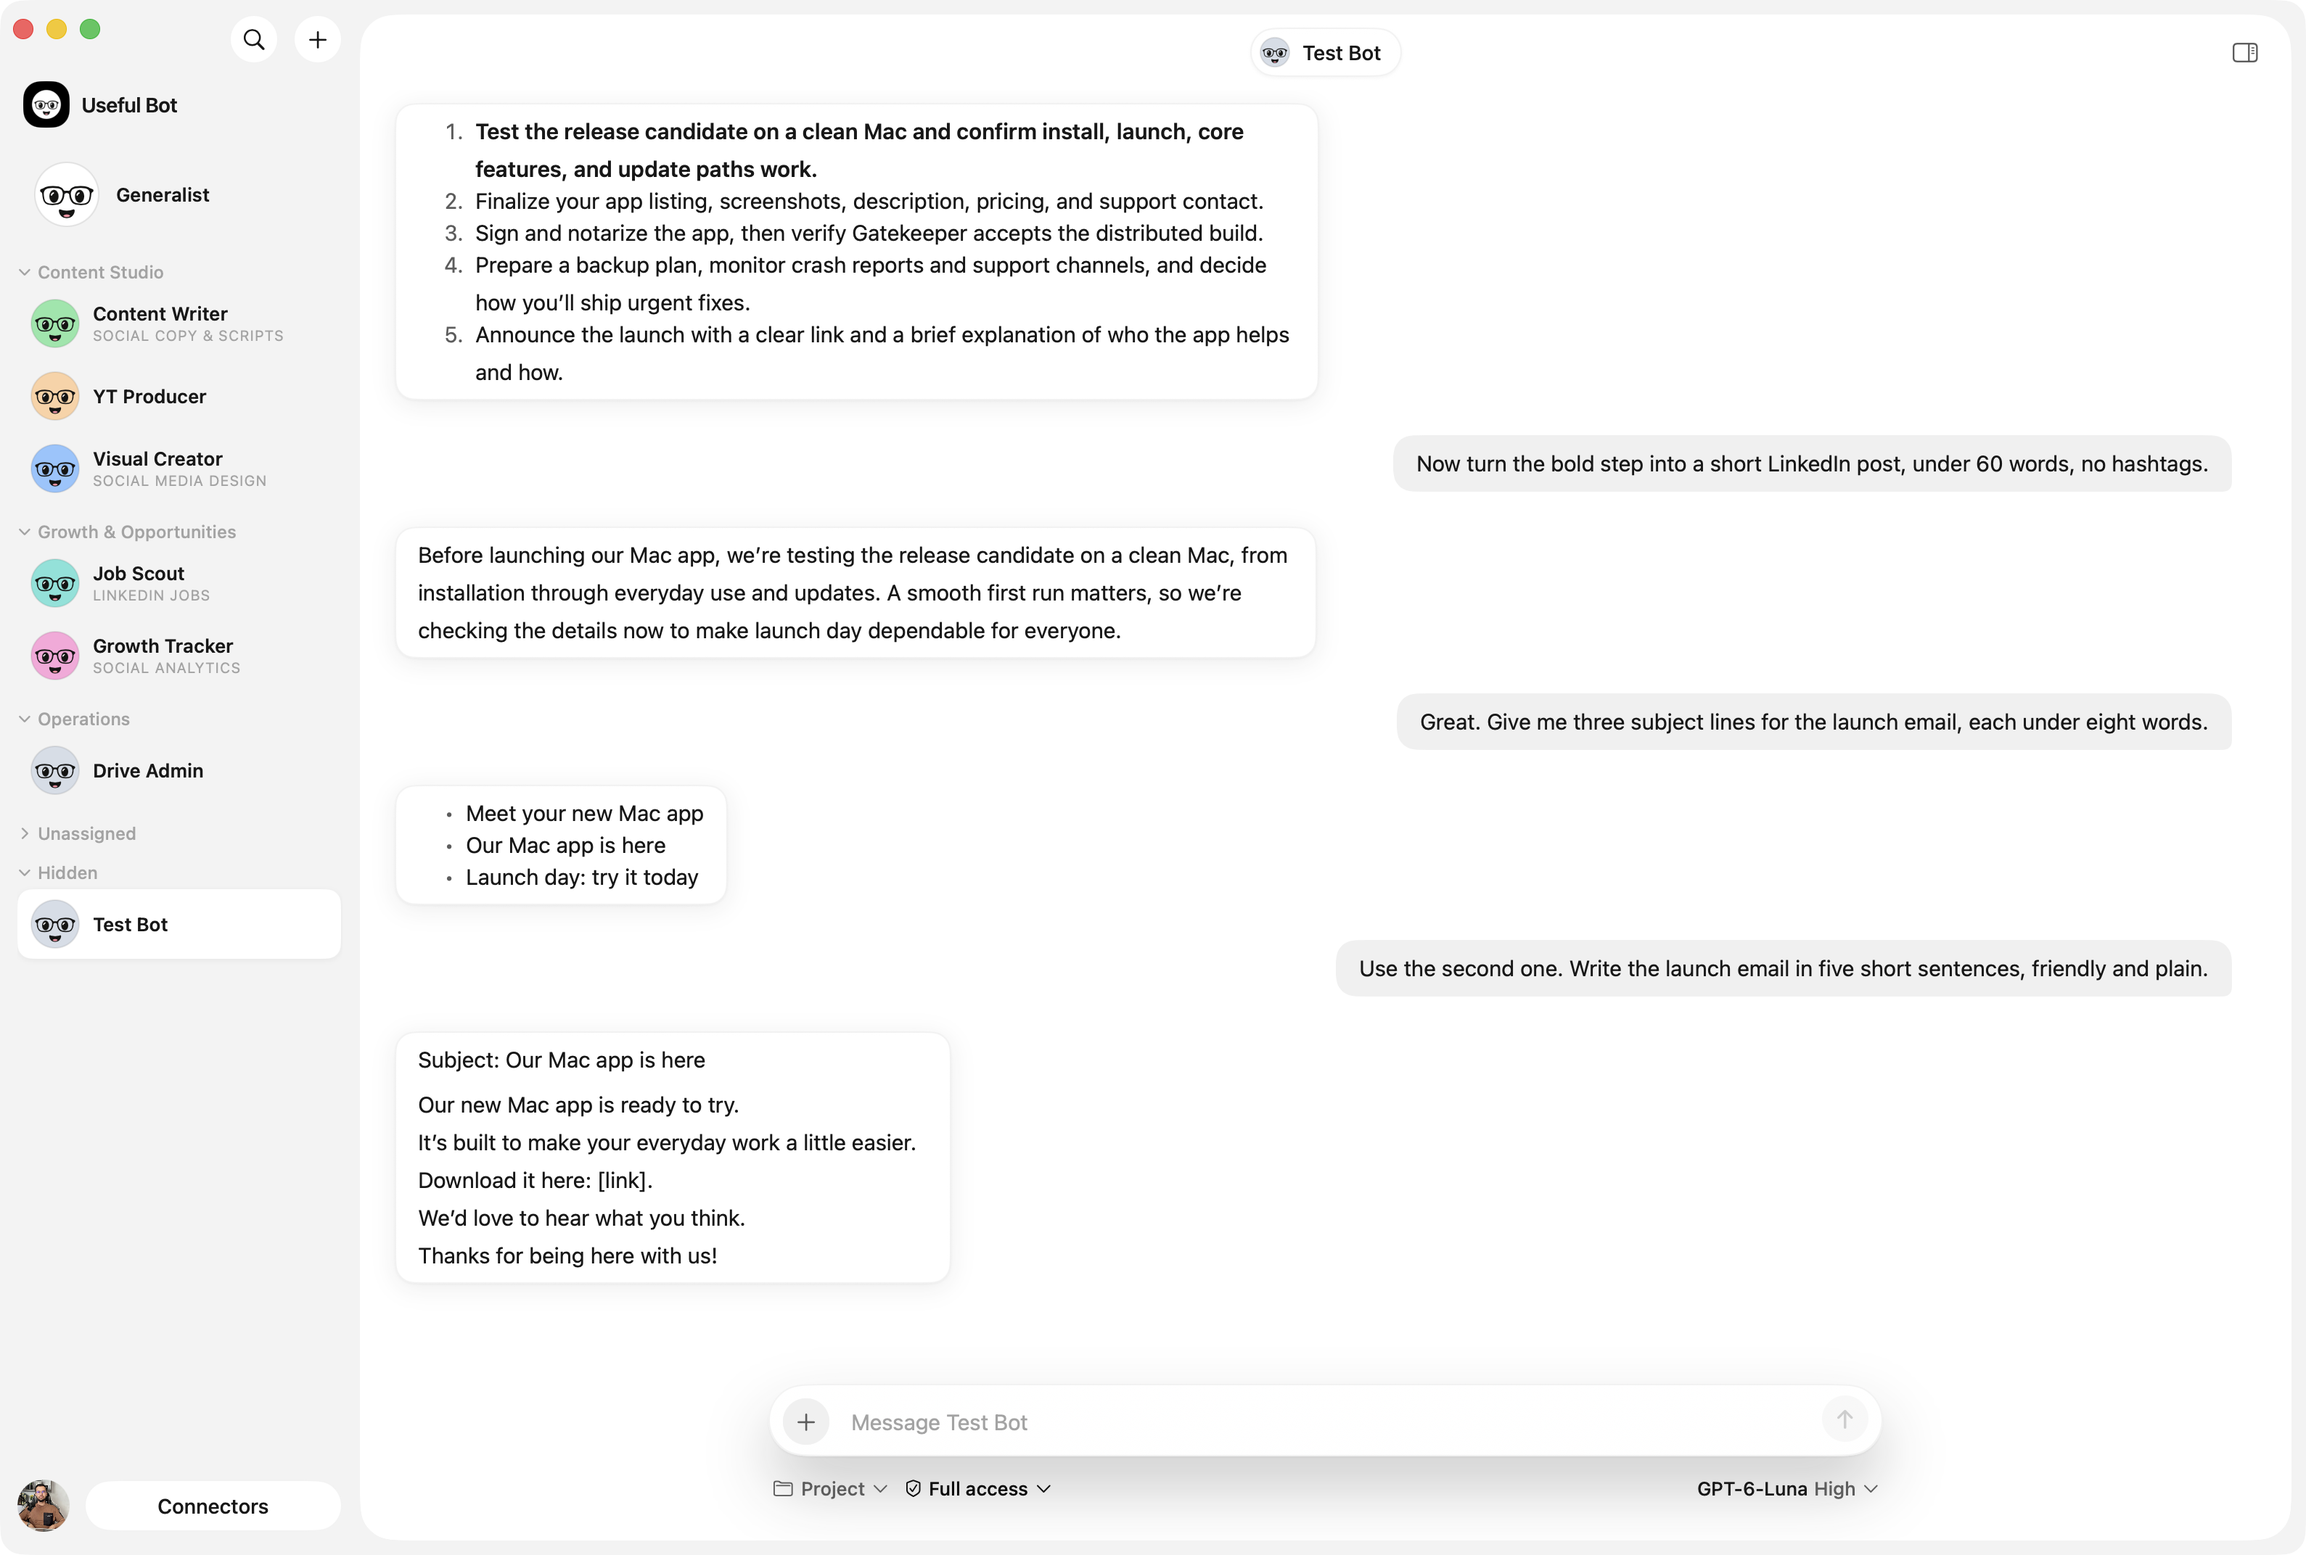
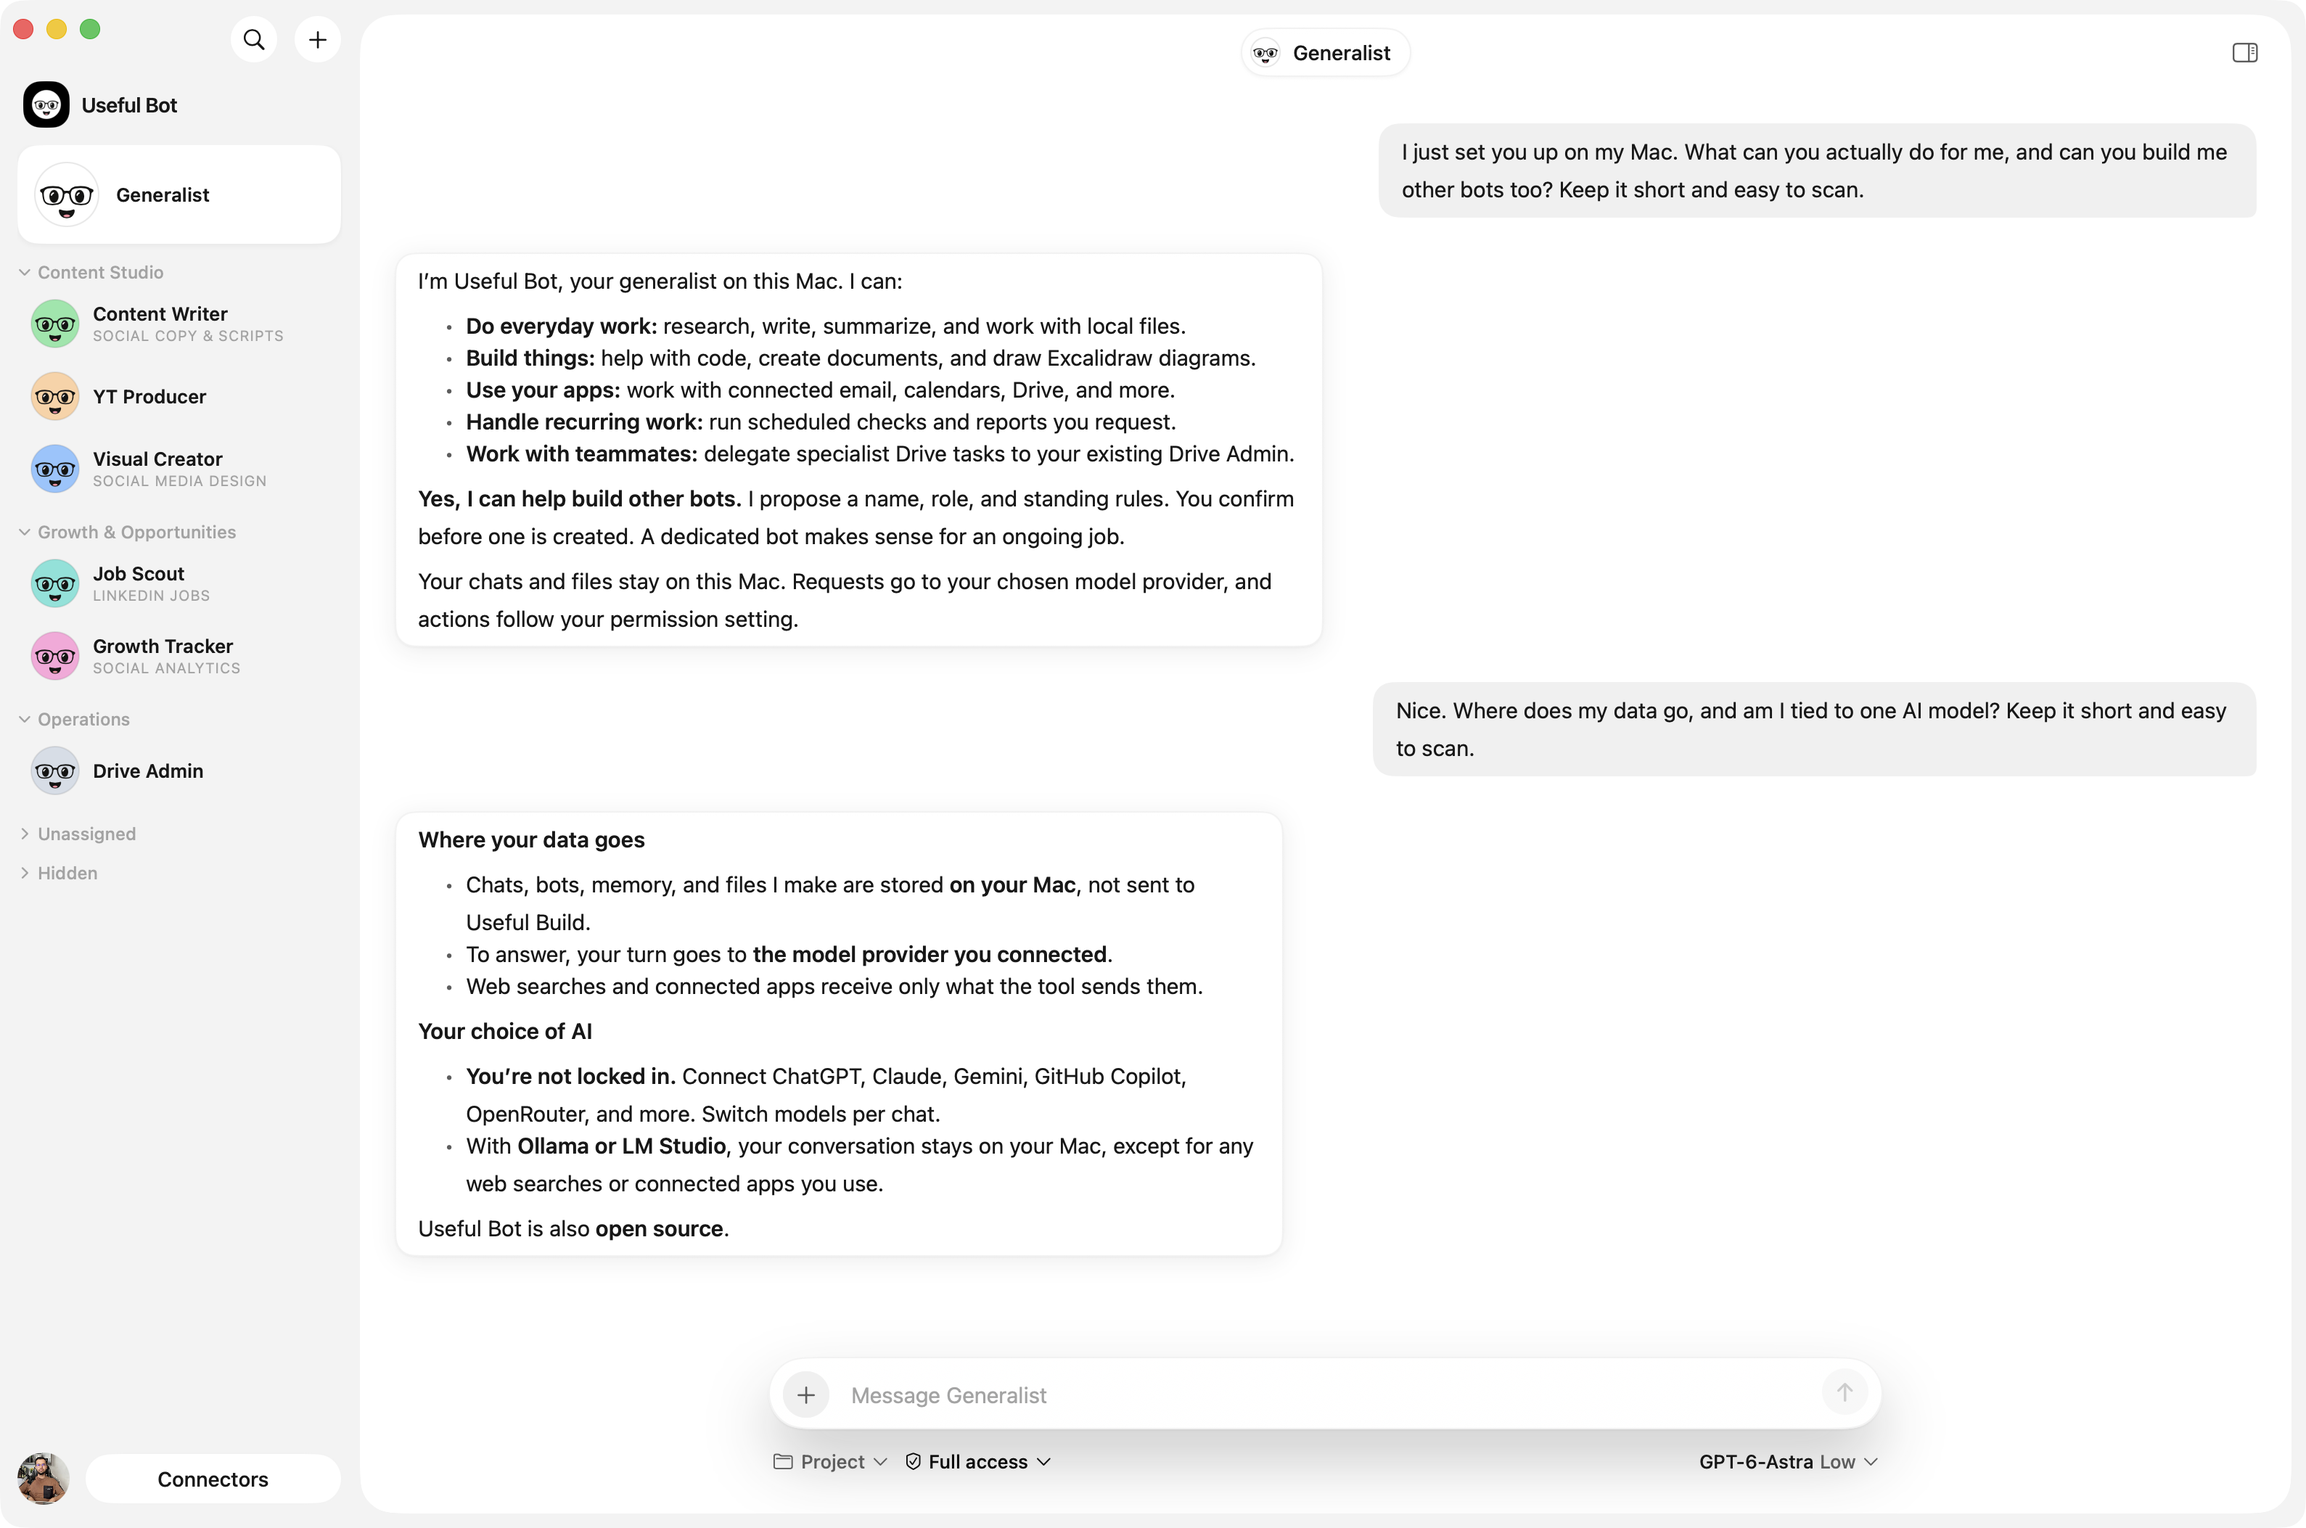
fix: earlier bubble no longer truncates when a later reply lands; new hero
- ChatView: the viewport floor proposed a finite height to the eager transcript
  stack, which shared it out and cut an earlier bubble paragraph to one line in
  a chat shorter than the window. fixedSize on the stack keeps its ideal height.
  Reproduced offscreen before and after (Opus debugger).
- site: hero is Generalist answering two first questions, kicker removed

Claude-Session: https://claude.ai/code/session_01V7PKK4nmRXja6CuPQxfA3j

diff --git a/site/public/index.html b/site/public/index.html
@@ -96,8 +96,6 @@ header.nav[data-scrolled="true"] { border-color: var(--rule); }
   background-size: 96px 96px; background-position: center -1px;
   -webkit-mask-image: linear-gradient(to bottom, #000 0, #000 30%, transparent 62%); mask-image: linear-gradient(to bottom, #000 0, #000 30%, transparent 62%); }
 .hero-inner { position: relative; width: min(100%, 1248px); margin-inline: auto; padding: 80px 24px 0; }
-.kicker { display: inline-flex; align-items: center; gap: 10px; margin: 0 0 26px; color: var(--night-muted); font-family: var(--font-mono); font-size: 12px; letter-spacing: 0.08em; text-transform: uppercase; }
-.kicker::before { content: ""; width: 7px; height: 7px; border-radius: 50%; background: var(--night-ink); }
 h1 { max-width: 13em; margin: 0; font-size: clamp(40px, 6vw, 84px); font-weight: 500; line-height: 0.98; letter-spacing: -0.045em; text-wrap: balance; }
 .hero-row { display: grid; grid-template-columns: minmax(0, 1fr) minmax(0, 1fr); gap: 64px; align-items: start; margin-top: 34px; }
 .hero-row > * { min-width: 0; }
@@ -262,7 +260,6 @@ h1 { max-width: 13em; margin: 0; font-size: clamp(40px, 6vw, 84px); font-weight:
         <div class="sheet">
           <div class="sheet-grid" aria-hidden="true"></div>
           <div class="hero-inner">
-            <p class="kicker" data-rise style="--i:0">Native Mac app</p>
             <h1 data-rise style="--i:0">A team of AI bots that lives on your Mac.</h1>
             <div class="hero-row" data-rise style="--i:1">
               <p class="lede">Give each bot one job: writing, research, your inbox or your files. They run on the model you already pay for, work in the apps you connect and ask before they touch anything you haven't allowed.</p>
@@ -289,8 +286,8 @@ h1 { max-width: 13em; margin: 0; font-size: clamp(40px, 6vw, 84px); font-weight:
             </div>
             <div class="stage" data-rise style="--i:2">
               <figure>
-                <div class="window"><img alt="Useful Bot on a Mac: the rail of bots on the left and a chat where a bot answers with a launch checklist." src="/shots/chat.png" width="3178" height="2144" fetchpriority="high" /></div>
-                <figcaption>The real app. Every bot keeps its own chat, and what it's doing shows as it works.</figcaption>
+                <div class="window"><img alt="Useful Bot on a Mac: the Generalist bot explains what it can do, that it can set up other bots, where your data goes and that you can use any model." src="/shots/chat.png" width="3178" height="2106" fetchpriority="high" /></div>
+                <figcaption>The real app, asked two first questions.</figcaption>
               </figure>
             </div>
           </div>

diff --git a/macos/Sources/UsefulBotApp/ChatView.swift b/macos/Sources/UsefulBotApp/ChatView.swift
@@ -694,6 +694,11 @@ struct ChatView: View {
                     .padding(.top, DesignTokens.Space.chatPaddingVertical)
                     // The working row's slot is most of the bottom margin.
                     .padding(.bottom, DesignTokens.Space.chatPaddingVertical - WorkingRow.height + Self.bottomFade)
+                    // The floor below is a minimum, not the stack's height. A
+                    // finite height here made the eager stack share it out
+                    // between rows, and an earlier bubble's paragraph shrank
+                    // to one truncated line once a later reply arrived.
+                    .fixedSize(horizontal: false, vertical: true)
                     // A chat shorter than the window reads from the top, like
                     // a page. The bottom anchor below would otherwise sit a
                     // first message against the composer with the window
